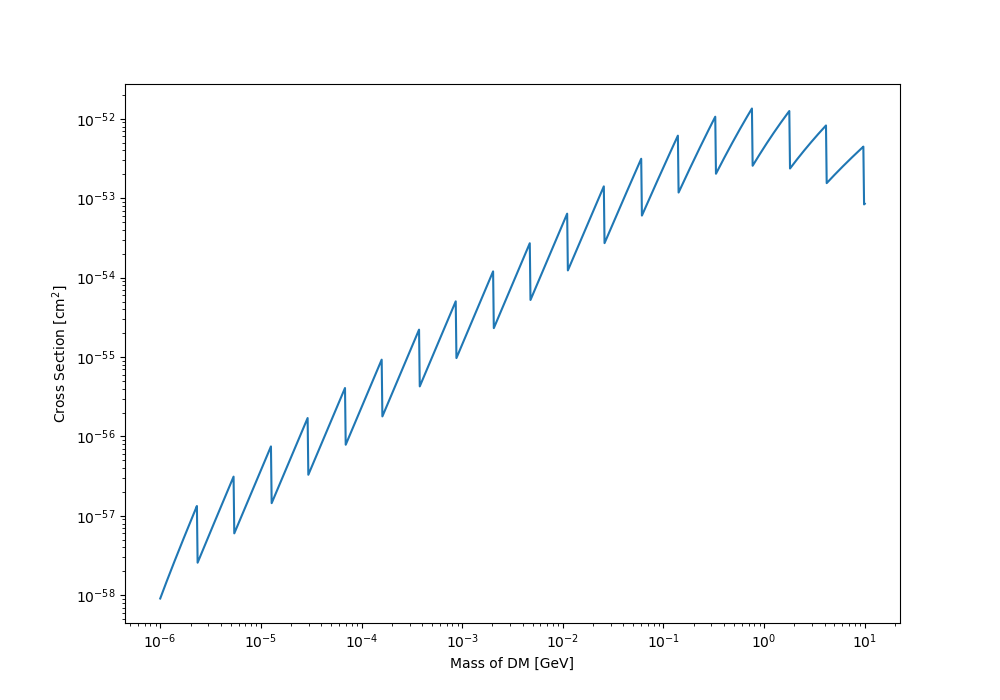
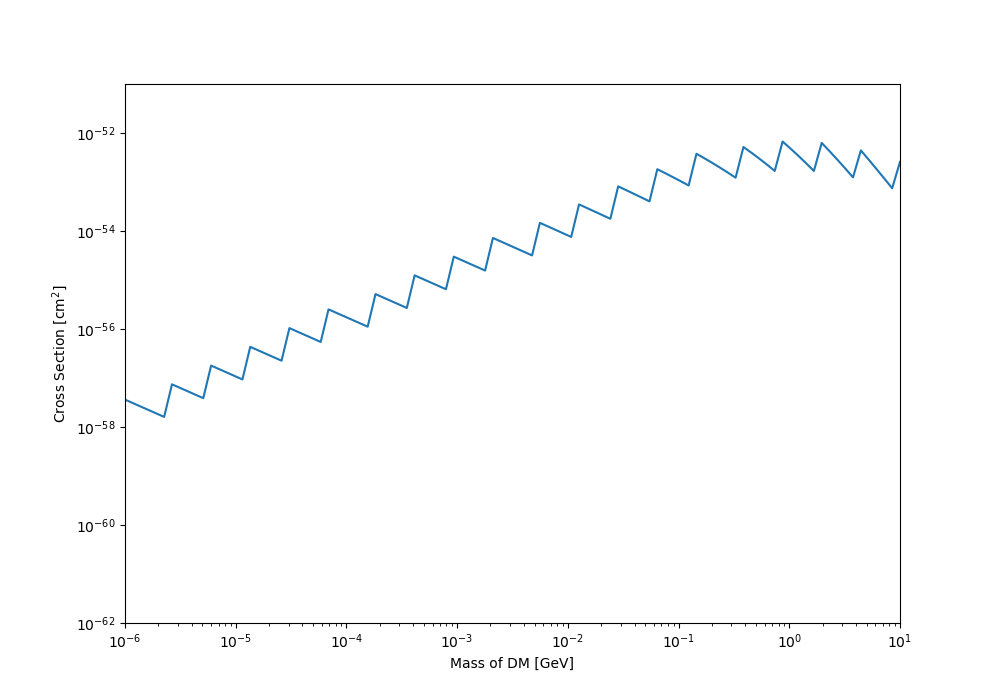
gg

diff --git a/Bertoni Code/bertoni_numerical.py b/Bertoni Code/bertoni_numerical.py
@@ -1,9 +1,8 @@
 import numpy as np
 import matplotlib
 import matplotlib.pyplot as plt
-from bertoni_analytic import coupling_squared
-from bertoni_analytic import cross_section
 import scipy.constants as cn
+from bertoni_analytic import coupling_squared
 
 pi = np.pi
 hbar = cn.hbar
@@ -22,8 +21,8 @@ therm_time = 1e10 *3.154e7 /time_conversion # in GeV^-1
 def energy_averge(previous_energy):
     return (3/7) * previous_energy
 
-def scattering_rate(DM_mass, energy):
-    numerator = 2*coupling_squared(DM_mass) * neutron_mass**2 * DM_mass * energy**2
+def scattering_rate_no_coupling(DM_mass, energy):
+    numerator = 2* neutron_mass**2 * DM_mass * energy**2
     denominator = 15* pi**3
     return numerator/denominator
 
@@ -32,87 +31,56 @@ def initial_energy(DM_mass):
 
 
 
-def thermalization_time(DM_mass): #returns therm in 1/Gev units
+def numerical_coupling(DM_mass): #returns therm in 1/Gev units
     energy_array = np.empty(0)
-    therm_time_array = np.empty(0)
+    num_coupling_array = np.empty(0)
     energy_array = np.append(energy_array, initial_energy(DM_mass))
     energy_array = np.append(energy_array, energy_averge(energy_array[0]))
 
 
     i=1
     while (energy_averge(energy_array[i-1] - energy_array[i]) > Temp):
-        therm_time_array = np.append(therm_time_array, 1/scattering_rate(DM_mass, energy_array[i]))
+        num_coupling_array = np.append(num_coupling_array, 1/scattering_rate_no_coupling(DM_mass, energy_array[i]))
         new_energy = energy_averge(energy_array[i])
         energy_array = np.append(energy_array, new_energy)
         i += 1
 
-    return np.sum(therm_time_array)#*time_conversion/3.154e7
+    return np.sum(num_coupling_array)/therm_time#*time_conversion/3.154e7
 
-
-def make_plot_time():
-    mass_range = np.logspace(-6, 1, num = 100)
-    therm_array = np.empty(0)
-
-    for i in mass_range:
-        dummy = thermalization_time(i)
-        therm_array = np.append(therm_array, dummy)
-
-    fig, ax = plt.subplots(figsize = (10, 7), dpi = 100)
-    ax.plot(mass_range, therm_array)
-    ax.set_xscale('log')
-    #ax.axis([1e-6, 1e1, 1e-62, 1e-51])
-    ax.set(xlabel = r'Mass of DM [GeV]', ylabel = r'Thermalization Time')
-    plt.savefig('Thermalzation time.png')
-    plt.show()
-
-
-
-def time_dep_coupling_squared(DM_mass, proper_time):
-
-    k_n = np.sqrt(4*DM_mass*Temp)
-    k_0 = DM_mass/3
-
-
-    bracket = 1/(k_n)**4 - 1/(k_0)**4
-    numerical_factor = (105*(pi**3))/(4*(neutron_mass**2)*proper_time)
-    return numerical_factor * DM_mass * bracket
-
-def time_dep_cross_section(DM_mass, proper_time):
-    numerator = time_dep_coupling_squared(DM_mass, proper_time)*neutron_mass**2 * DM_mass**2
+def numerical_cross_section(DM_mass):
+    numerator = numerical_coupling(DM_mass)*neutron_mass**2 * DM_mass**2
     denominator = pi*(neutron_mass + DM_mass)**2
     cross_section_GeV2 = numerator/denominator
 
     return cross_section_GeV2 *(length_conversion**2) * (100**2)
 
-def make_plot_time_dep():
-    mass_range = np.logspace(-6, 1, num = 1000)
-    cross_section_array = np.empty(0)
+
+def make_plot_numeric_coupling():
+    mass_range = np.logspace(-6, 1, num = 100)
+    numerical_cross_section_array = np.empty(0)
 
     for i in mass_range:
-        time_dummy = thermalization_time(i)
-        cross_section_dummy = time_dep_cross_section(i, time_dummy)
-        cross_section_array = np.append(cross_section_array, cross_section_dummy)
+        dummy = numerical_cross_section(i)
+        numerical_cross_section_array = np.append(numerical_cross_section_array, dummy)
 
     fig, ax2 = plt.subplots(figsize = (10, 7), dpi = 100)
-    ax2.loglog(mass_range, cross_section_array)
-    #ax2.axis([1e-6, 1e1, 1e-62, 1e-51])
+    ax2.loglog(mass_range, numerical_cross_section_array)
+    ax2.axis([1e-6, 1e1, 1e-62, 1e-51])
     ax2.set(xlabel = r'Mass of DM [GeV]', ylabel = r'Cross Section [cm$^2$]')
     plt.savefig('Cross Section plot - numerical.png')
     plt.show()
 
 
-""""""""""""""""""""""""""""""""""""""""""""""""""""""""""""""""""""""
-def plot_a_thing():
-    mass_range = np.logspace(-6, 1, num = 1000)
-    thing = np.empty(0)
+def make_thing():
+    mass_range = np.logspace(-6, 1, num=1000)
+    array = np.empty(0)
 
-    for i in mass_range:
-        time_thing = thermalization_time(i)
-        dummy = cross_section(i)/time_dep_cross_section(i, time_thing)
-        thing = np.append(thing, dummy)
+    for mass in mass_range:
+        dummy = numerical_coupling(mass)
+        array = np.append(array, dummy)
 
-    plt.plot(mass_range, thing)
+    plt.plot(mass_range, array)
     plt.xscale('log')
     plt.show()
 
-plot_a_thing()
+make_thing()

diff --git a/Bertoni Code/bertoni_analytic.py b/Bertoni Code/bertoni_analytic.py
@@ -35,7 +35,7 @@ def cross_section(DM_mass):
     return cross_section_GeV2 *(length_conversion**2) * (100**2)
 
 
-def make_plot():
+def make_plot_coupling():
     mass_range = np.logspace(-6, 1, num = 1000)
     cross_section_array = np.empty(0)
 
@@ -50,4 +50,4 @@ def make_plot():
     plt.savefig('Cross Section plot - Analytic.png')
     plt.show()
 
-#make_plot()
+make_plot()
